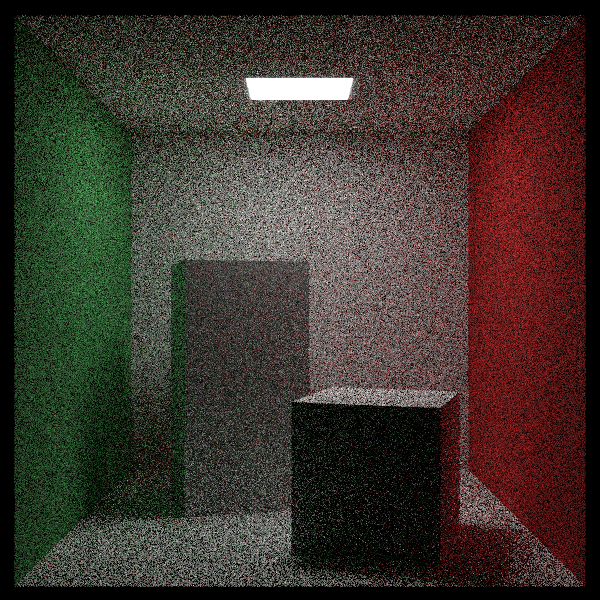
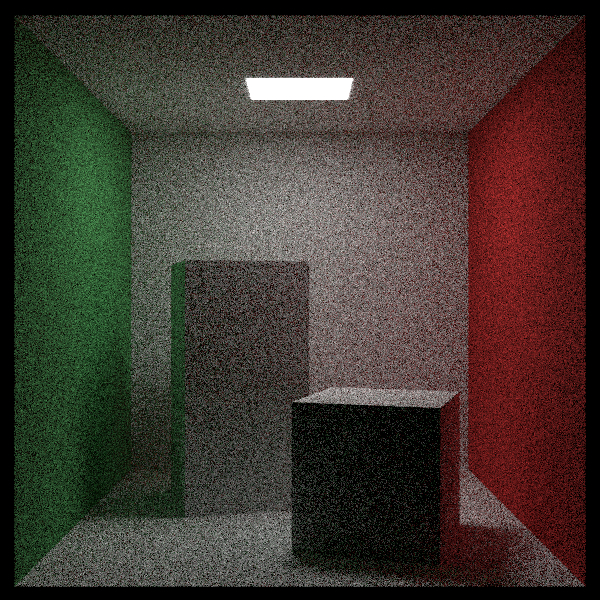
Chapters 7 and 8

diff --git a/RayTraceDemo/material.h b/RayTraceDemo/material.h
@@ -1,7 +1,9 @@
 #pragma once
 #ifndef MATERIAL_H
 #define MATERIAL_H
+#include "cos_density.h"
 #include "hittable.h"
+#include "onb.h"
 #include "ray.h"
 #include "texture.h"
 
@@ -33,11 +35,13 @@ public:
 	virtual bool scatter(
 		const ray& r_in, const hit_record& rec, color& alb, ray& scattered, double& pdf
 	) const override {
-		auto direction = random_in_hemisphere(rec.normal);
-		scattered = ray(rec.p, unit_vector(direction), r_in.time());
-		alb = albedo->value(rec.u, rec.v, rec.p);
-		pdf = 0.5 / pi;
-		return true;
+    onb uvw;
+    uvw.build_from_w(rec.normal);
+    auto direction = uvw.local(random_cosine_direction());
+    scattered = ray(rec.p, unit_vector(direction), r_in.time());
+    alb = albedo->value(rec.u, rec.v, rec.p);
+    pdf = dot(uvw.w(), scattered.direction()) / pi;
+    return true;
 	}
 	
 	double scattering_pdf(

diff --git a/RayTraceDemo/onb.h b/RayTraceDemo/onb.h
@@ -1,0 +1,35 @@
+#ifndef ONB_H
+#define ONB_H
+#include "vec3.h"
+
+class onb
+{
+public:
+	onb() {}
+	vec3 axis[3];
+	inline vec3 operator[](int i) const { return axis[i]; }
+	vec3 u() const { return axis[0]; }
+	vec3 v() const { return axis[1]; }
+	vec3 w() const { return axis[2]; }
+	vec3 local(double a, double b, double c) const
+	{
+		return a * u() + b * v() + c * w();
+	}
+
+	vec3 local(const vec3& a) const
+	{
+		return a.x() * u() + a.y() * v() + a.z() * w();
+	}
+
+	void build_from_w(const vec3&);
+};
+
+inline void onb::build_from_w(const vec3& n)
+{
+	axis[2] = unit_vector(n);
+	vec3 a = (fabs(w().x()) > 0.9) ? vec3(0, 1, 0) : vec3(1, 0, 0);
+	axis[1] = unit_vector(cross(w(), a));
+	axis[0] = cross(w(), v());
+}
+
+#endif

diff --git a/RayTraceDemo/cos_cubed.cpp b/RayTraceDemo/cos_cubed.cpp
@@ -1,0 +1,21 @@
+//#include <iomanip>
+//#include <iostream>
+//
+//#include "pi.h"
+//#include "utill.h"
+//
+//void cosCubed() {
+//    int N = 1000000;
+//    auto sum = 0.0;
+//    for (int i = 0; i < N; i++) {
+//        auto r1 = random_double();
+//        auto r2 = random_double();
+//        auto x = cos(2*pi*r1)*2*sqrt(r2*(1-r2));
+//        auto y = sin(2*pi*r1)*2*sqrt(r2*(1-r2));
+//        auto z = 1 - r2;
+//        sum += z*z*z / (1.0/(2.0*pi));
+//    }
+//    std::cout << std::fixed << std::setprecision(12);
+//    std::cout << "Pi/2     = " << pi/2 << '\n';
+//    std::cout << "Estimate = " << sum/N << '\n';
+//}

diff --git a/RayTraceDemo/sphere_plot.cpp b/RayTraceDemo/sphere_plot.cpp
@@ -1,0 +1,15 @@
+//#include <iostream>
+//
+//#include "pi.h"
+//#include "utill.h"
+//
+//void spherePlot() {
+//    for (int i = 0; i < 200; i++) {
+//        auto r1 = random_double();
+//        auto r2 = random_double();
+//        auto x = cos(2*pi*r1)*2*sqrt(r2*(1-r2));
+//        auto y = sin(2*pi*r1)*2*sqrt(r2*(1-r2));
+//        auto z = 1 - 2*r2;
+//        std::cout << x << " " << y << " " << z << '\n';
+//    }
+//}

diff --git a/RayTraceDemo/cos_density.h b/RayTraceDemo/cos_density.h
@@ -1,0 +1,18 @@
+#include "utill.h"
+
+#include <iostream>
+#include <math.h>
+
+#include "vec3.h"
+
+inline vec3 random_cosine_direction() {
+    auto r1 = random_double();
+    auto r2 = random_double();
+    auto z = sqrt(1-r2);
+
+    auto phi = 2*pi*r1;
+    auto x = cos(phi)*sqrt(r2);
+    auto y = sin(phi)*sqrt(r2);
+
+    return vec3(x, y, z);
+}

diff --git a/README.md b/README.md
@@ -9,8 +9,8 @@ Project Repo for the Ray Tracing in... Series. The following are currently imple
 | <li>- [X] Rays, a Simple Camera, and Background </li> | <li>- [X] Solid Textures </li>                | <li>- [X] MC Integration on the Sphere of Directions </li> |
 | <li>- [X] Adding a Sphere </li>                       | <li>- [X] Perlin Noise </li>                  | <li>- [X] Light Scattering </li> |
 | <li>- [X] Surface Normals and Multiple Objects </li>  | <li>- [X] Image Texture Mapping </li>         | <li>- [X] Importance Sampling Materials </li> |
-| <li>- [X] Antialiasing </li>                          | <li>- [X] Rectangles and Lights </li>         | <li>- [ ] Generating Random Directions </li> |
-| <li>- [X] Diffuse Materials </li>                     | <li>- [X] Instances </li>                     | <li>- [ ] Orthonormal Bases </li> |
+| <li>- [X] Antialiasing </li>                          | <li>- [X] Rectangles and Lights </li>         | <li>- [X] Generating Random Directions </li> |
+| <li>- [X] Diffuse Materials </li>                     | <li>- [X] Instances </li>                     | <li>- [X] Orthonormal Bases </li> |
 | <li>- [X] Metal  </li>                                | <li>- [X] Volumes </li>                       | <li>- [ ] Sampling Lights Directly </li> | 
 | <li>- [X] Dielectrics </li>                           | <li>- [X] Final Render </li>                  | <li>- [ ] Mixture Densities </li> |
 | <li>- [X] Positionable Camera</li>                    |                                               | <li>- [ ] Some Architectural Decisions </li> |
